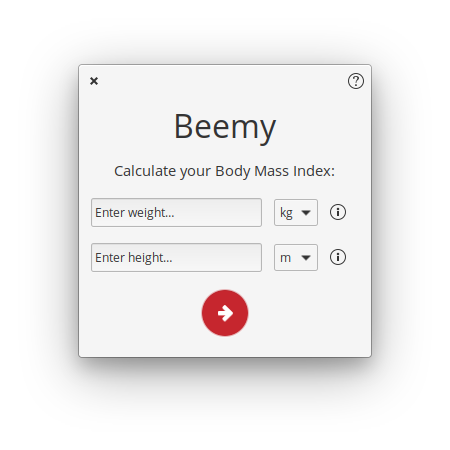
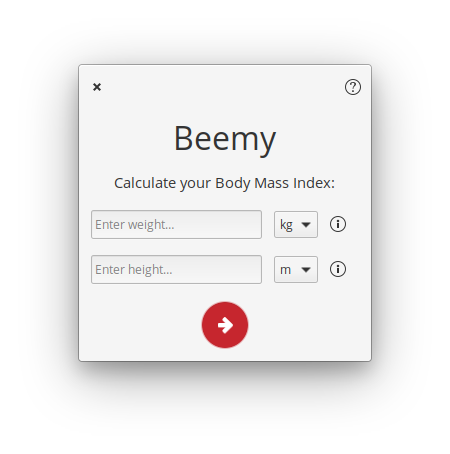
1.0.1 - the start of 1.0.1

diff --git a/data/stylesheet.css b/data/stylesheet.css
@@ -11,6 +11,7 @@
 .beemy-toolbar {
     background: @colorPrimary;
     color: @textColorPrimary;
+    padding: 6px;
 }
 
 .color-button {
@@ -26,9 +27,9 @@
 .color-button:hover,
 .color_button:focus {
     box-shadow:
-        inset 0 1px 0 0 alpha (@appPrimary, 0.7),
-        inset 0 0 0 1px alpha (@appPrimary, 0.3),
-        0 1px 0 0 alpha (@appPrimary, 0.3);
+        inset 0 2px 0 0 alpha (@appPrimary, 0.7),
+        inset 0 0 0 2px alpha (@appPrimary, 0.3),
+        0 2px 2px 0 alpha (@appPrimary, 0.3);
 }
 
 .color-button-action {
